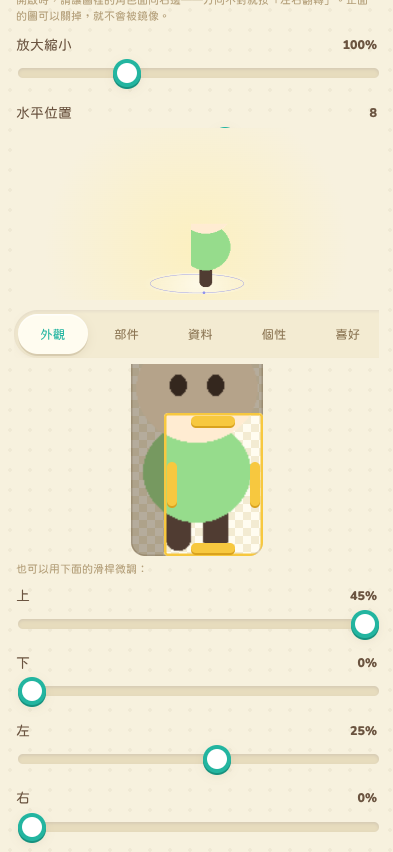
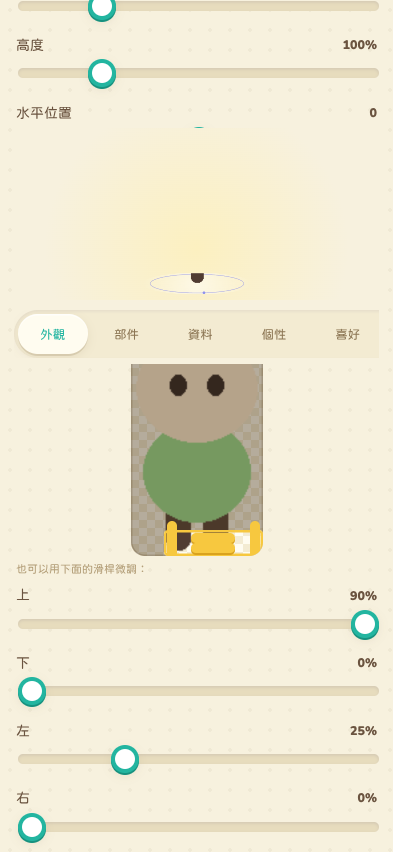
16.0: fix crop handle write order (value before the target object); draw-call counting unchanged for the single pass; tests follow the new limits and name card

diff --git a/game/tests/v14/run.js b/game/tests/v14/run.js
@@ -101,6 +101,10 @@ const shot = (page, n) => page.screenshot({ path: path.join(SHOTS, n + '.png') }
         const b2 = await page.evaluate(() => { const b = document.querySelector('.crop-box'); b.scrollIntoView({ block: 'end' }); /* the preview stage stays pinned at the top of this page: bring the top handle below it */ const q = b.querySelector('.crop-h.t').getBoundingClientRect(), r = b.getBoundingClientRect(); return { x: q.x + q.width / 2, y: q.y + q.height / 2, h: r.height, cx: r.x + r.width * 0.62, cy: r.y + r.height * 0.75 }; });
         await page.mouse.move(b2.x, b2.y); await page.mouse.down(); await page.mouse.move(b2.x, b2.y + b2.h * 0.9, { steps: 6 }); await page.mouse.up(); await wait(page, 500);
         res.clamped = await draft();
+        /* put the top edge back (a 90 % crop leaves a sliver the middle of which is covered by the handles) */
+        { const b4 = await page.evaluate(() => { const b = document.querySelector('.crop-box'); b.scrollIntoView({ block: 'center' }); const q = b.querySelector('.crop-h.t').getBoundingClientRect(); return { x: q.x + q.width / 2, y: q.y + q.height / 2, h: b.getBoundingClientRect().height }; });
+          await page.mouse.move(b4.x, b4.y); await page.mouse.down(); await page.mouse.move(b4.x, b4.y - b4.h * 1.2, { steps: 6 }); await page.mouse.up(); await wait(page, 500); }
+        await page.evaluate(() => { const p = OC.Pages.pages.charedit, f = p.draft.appearance.frame; f.crop.t = 0; p.ctx.rebuild(); }); await wait(page, 400);
         /* one finger inside the frame moves the character */
         const b3 = await page.evaluate(() => { const b = document.querySelector('.crop-box'); b.scrollIntoView({ block: 'center' }); const q = b.querySelector('.crop-rect').getBoundingClientRect(); return { x: q.x + q.width / 2, y: q.y + q.height / 2, h: b.getBoundingClientRect().height }; });
         await page.mouse.move(b3.x, b3.y); await page.mouse.down(); await page.mouse.move(b3.x + 20, b3.y + 10, { steps: 4 }); await page.mouse.up(); await wait(page, 500);
@@ -111,7 +115,7 @@ const shot = (page, n) => page.screenshot({ path: path.join(SHOTS, n + '.png') }
       await shot(page, '4-crop');
       await page.evaluate(() => { const p = OC.Pages.pages.charedit; p.dirty = false; }); await closeAll();
       check('4a 圖片角色的編輯頁有裁切框，直接拖左邊的把手就裁掉左邊（約四分之一），其他三邊不變', res.box && Math.abs(res.afterCrop.crop.l - 0.25) < 0.04 && res.afterCrop.crop.t === 0 && res.afterCrop.crop.r === 0 && res.afterCrop.crop.b === 0, res.afterCrop || res);
-      check('4b 拖過頭會停在上限（45%），不會把整張圖裁光', res.box && Math.abs(res.clamped.crop.t - 0.45) < 0.001, res.clamped || res);
+      check('4b 拖過頭會停在上限（16.0：每邊最多 92% 減去對邊），不會把整張圖裁光', res.box && res.clamped.crop.t > 0.85 && res.clamped.crop.t <= 0.92, res.clamped || res);
       check('4c 在框內單指拖曳＝移動角色的位置（裁切不變）；還沒按儲存前只改草稿，角色本身沒被改動', res.box && res.moved.dx > 1 && res.moved.dy > 0.5 && Math.abs(res.moved.crop.l - res.clamped.crop.l) < 0.001 && res.saved.frame === null && res.saved.dirty, { moved: res.moved, saved: res.saved });
     }
 

diff --git a/game/js/world/world.js b/game/js/world/world.js
@@ -578,7 +578,7 @@
       THREE.ShaderChunk.tonemapping_fragment += '\n#ifndef OC_CHAR\n{ vec3 c = gl_FragColor.rgb; float ocS = dot( c, vec3( 0.2126, 0.7152, 0.0722 ) ); float w = clamp( ( c.g - max( c.r, c.b ) ) * 4.0 - 0.25, 0.0, 1.0 ); gl_FragColor.rgb = mix( c, ' + T + ', w * ' + K + ' ); }\n#endif\n';
     }
     R = new THREE.WebGLRenderer({ canvas, antialias: false, alpha: false, powerPreference: 'high-performance', stencil: false });
-    R.debug.checkShaderErrors = false; R.info.autoReset = false;   /* asking for the compile log forces every shader to finish compiling on the spot (a visible hitch each time something new appears) */
+    R.debug.checkShaderErrors = false;   /* asking for the compile log forces every shader to finish compiling on the spot (a visible hitch each time something new appears) */
     R.outputColorSpace = THREE.SRGBColorSpace; R.shadowMap.enabled = true; R.shadowMap.type = quality.soft ? THREE.PCFSoftShadowMap : THREE.PCFShadowMap;
     scene = new THREE.Scene(); scene.background = new THREE.Color(OC.Style.P.sea);
     cam = new THREE.OrthographicCamera(-180, 180, 320, -320, 1, 4000);
@@ -624,17 +624,18 @@
     split.rt = rt; split.w = w; split.h = h; split.mat.uniforms.tColor.value = rt.texture; split.mat.uniforms.tDepth.value = depth;
   }
   function renderWorld() {
-    R.info.reset();
     if (!split) { cam.layers.enableAll(); R.render(scene, cam); return; }
+    /* three resets its counters at the start of every render() call; the three passes are counted together (the shadow pass included) */
+    R.info.autoReset = false; R.info.reset();
     try {
       cam.layers.set(0); R.setRenderTarget(split.rt); R.render(scene, cam);
       R.setRenderTarget(null); R.render(split.sc, split.cam);
       const bg = scene.background, ac = R.autoClear; scene.background = null; R.autoClear = false; cam.layers.set(CHAR_LAYER);
       R.render(scene, cam);
-      scene.background = bg; R.autoClear = ac; cam.layers.enableAll();
+      scene.background = bg; R.autoClear = ac; cam.layers.enableAll(); R.info.autoReset = true;
       if (split.checks < 3) { split.checks++; const gl = R.getContext(), e = gl.getError(); if (e) throw new Error('GL error ' + e); }
     } catch (err) { /* a driver that cannot do this falls back to the single pass for the rest of the session */
-      splitBroken = true; R.setRenderTarget(null); R.autoClear = true; cam.layers.enableAll(); setupTargets(); console.warn('[world] split rendering off: ' + (err && err.message)); R.render(scene, cam);
+      R.info.autoReset = true; splitBroken = true; R.setRenderTarget(null); R.autoClear = true; cam.layers.enableAll(); setupTargets(); console.warn('[world] split rendering off: ' + (err && err.message)); R.render(scene, cam);
     }
   }
   function resize() {

diff --git a/game/tests/v12/run.js b/game/tests/v12/run.js
@@ -180,8 +180,8 @@ const { check, wait } = H;
     if (want(7)) {
       await closeAll(); await page.evaluate(() => { OC.App.tab('island'); OC.App.rail(false); }); await wait(page, 700);
       const vis = (sel) => `[...document.querySelectorAll('${sel}')].filter((e) => { const r = e.getBoundingClientRect(), cs = getComputedStyle(e); return r.width > 0 && r.height > 0 && cs.display !== 'none' && cs.visibility !== 'hidden' && !e.hidden; }).length`;
-      const hud = await page.evaluate((q) => ({ controls: eval(q), moodRowVisible: [...document.querySelectorAll('.hud-plate .hud-row')].filter((e) => getComputedStyle(e).display !== 'none').length, railOpen: document.querySelector('.hud-rail').classList.contains('open') }), vis('#hud button'));
-      check('7a 常駐 HUD 只剩：頭像名牌、時間、一個工具把手（有任務時多一個小膠囊）；心情列移到狀態卡', hud.controls <= 4 && hud.moodRowVisible === 1 && !hud.railOpen, hud);
+      const hud = await page.evaluate((q) => ({ controls: eval(q) - document.querySelectorAll('#hud .np-mini').length, moodRowVisible: [...document.querySelectorAll('.hud-plate .hud-row')].filter((e) => getComputedStyle(e).display !== 'none').length, railOpen: document.querySelector('.hud-rail').classList.contains('open') }), vis('#hud button'));
+      check('7a 常駐 HUD 只剩：頭像名牌、時間、一個工具把手（有任務時多一個小膠囊）；心情列移到狀態卡（16.0：名牌第二行是「地點・在做什麼」，其他角色的小頭像算名牌的一部分）', hud.controls <= 4 && hud.moodRowVisible === 2 && !hud.railOpen, hud);
       await page.evaluate(() => OC.App.rail(true)); await wait(page, 600);
       const open = await page.evaluate((q) => ({ n: eval(q), exp: document.querySelector('.rail-toggle').getAttribute('aria-expanded') }), vis('.hud-rail button'));
       await page.evaluate(() => OC.App.rail(false)); await wait(page, 300);

diff --git a/game/tests/v13/run.js b/game/tests/v13/run.js
@@ -109,7 +109,7 @@ const shot = (page, n) => page.screenshot({ path: path.join(SHOTS, n + '.png') }
       await wait(page, 400);
       const draft = await page.evaluate(() => { const box = document.querySelector('[data-sec=image]'); const p = OC.Pages.current && OC.Pages.current(); const txt = box ? box.textContent : ''; return { txt: txt.length }; });
       await shot(page, '2-picture-adjust');
-      check('2f 編輯器裡圖片角色有「調整圖片」：左右翻轉、跟著轉向、放大縮小、水平／垂直位置、四邊裁切、全部重設（7 個滑桿）', ui.has && ui.flipRow && ui.turn && ui.zoom && ui.crop && ui.reset && ui.sliders === 7 && ui.clicked, { ui, draft });
+      check('2f 編輯器裡圖片角色有「調整圖片」：左右翻轉、跟著轉向、放大縮小、水平／垂直位置、四邊裁切、全部重設（16.0：9 個滑桿，含寬度、高度）', ui.has && ui.flipRow && ui.turn && ui.zoom && ui.crop && ui.reset && ui.sliders === 9 && ui.clicked, { ui, draft });
       await closeAll(); await page.evaluate(() => { OC.UI.stack.slice().reverse().forEach((l) => l.close && l.close()); OC.App.tab('island'); }); await wait(page, 500);
       // on the desktop too: the exported frames of an action the player did not draw are animated
       const pet = await page.evaluate(async (id) => { const c = OC.Chars.get(id); const pack = await OC.PetSync.renderSprites(c); const a = pack.manifest.anims; const distinct = (k) => new Set(a[k].frames.map((f) => pack.files[f])).size; return { eat: distinct('eat'), sleep: distinct('sleep'), happy: distinct('happy'), walkSrc: a.walk.src, eatSrc: a.eat.src }; }, pic);

diff --git a/game/js/ui/charedit.js b/game/js/ui/charedit.js
@@ -180,7 +180,7 @@
           const hd = h('div.crop-h.' + side, { role: 'slider', 'aria-label': { l: '左邊', t: '上邊', r: '右邊', b: '下邊' }[side] });
           let s0 = null;
           hd.addEventListener('pointerdown', (e) => { e.stopPropagation(); e.preventDefault(); hd.setPointerCapture(e.pointerId); s0 = { x: e.clientX, y: e.clientY, v: F().crop[side] }; });
-          hd.addEventListener('pointermove', (e) => { if (!s0) return; const d = side === 'l' ? (e.clientX - s0.x) / w : side === 'r' ? (s0.x - e.clientX) / w : side === 't' ? (e.clientY - s0.y) / hh : (s0.y - e.clientY) / hh; F().crop[side] = cl(s0.v + d, side); lay(); x.changed('look', null); });
+          hd.addEventListener('pointermove', (e) => { if (!s0) return; const d = side === 'l' ? (e.clientX - s0.x) / w : side === 'r' ? (s0.x - e.clientX) / w : side === 't' ? (e.clientY - s0.y) / hh : (s0.y - e.clientY) / hh; const nv = cl(s0.v + d, side); F().crop[side] = nv;   /* the value first: cl() reads F(), which re-copies the crop object */ lay(); x.changed('look', null); });
           const end = () => { if (!s0) return; s0 = null; x.changed('look', 'idle'); build(); };
           hd.addEventListener('pointerup', end); hd.addEventListener('pointercancel', end);
           rect.append(hd);
